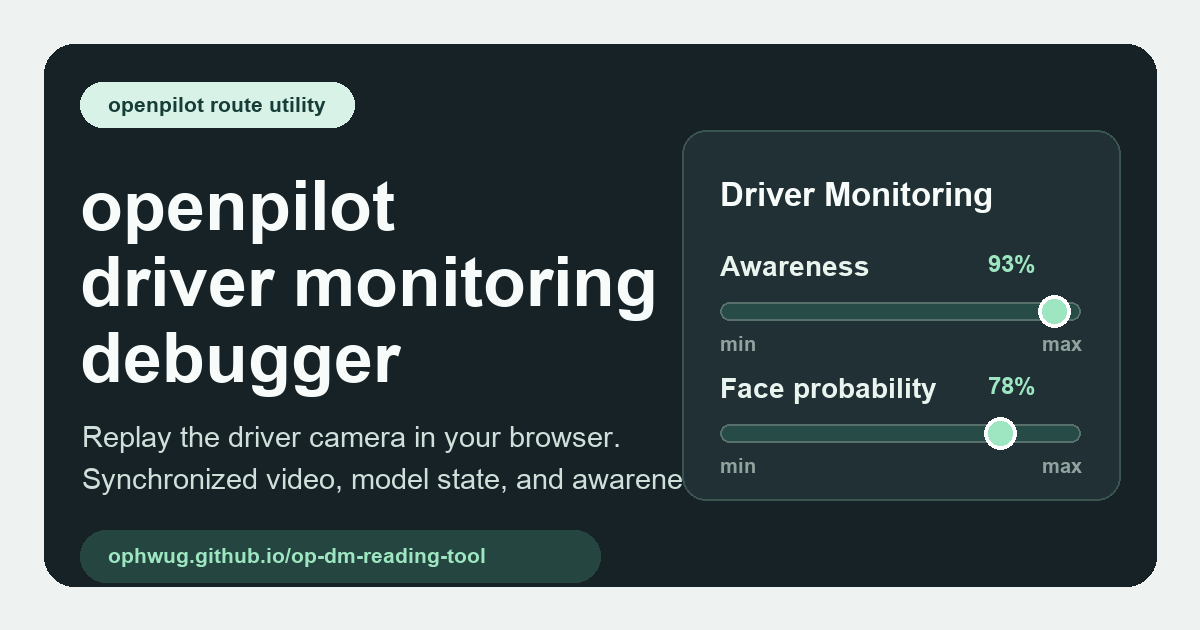
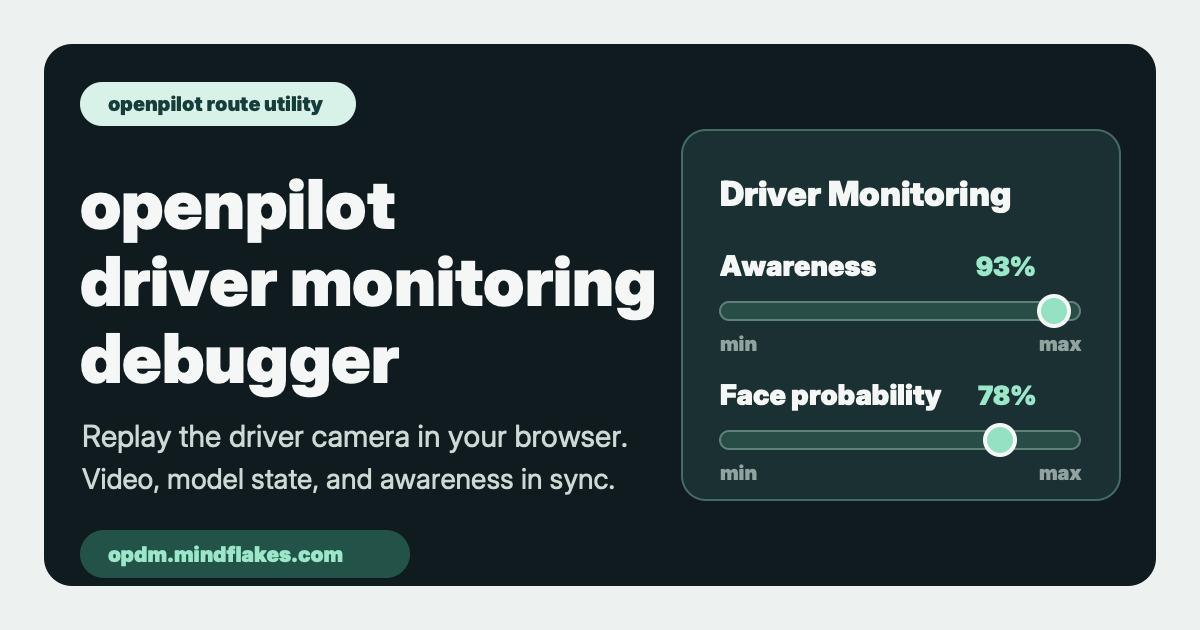
Add Discord link preview

diff --git a/index.html b/index.html
@@ -10,20 +10,28 @@
       content="A client-side openpilot driver monitoring debugger with synchronized driver-camera video and telemetry."
     />
     <meta property="og:type" content="website" />
+    <meta property="og:url" content="https://opdm.mindflakes.com/" />
+    <meta property="og:site_name" content="openpilot driver monitoring debugger" />
     <meta property="og:title" content="openpilot driver monitoring debugger" />
     <meta
       property="og:description"
       content="Inspect driver monitoring video, awareness, distraction, pose, and model state in your browser."
     />
+    <meta property="og:image" content="https://opdm.mindflakes.com/og-preview.png" />
+    <meta property="og:image:secure_url" content="https://opdm.mindflakes.com/og-preview.png" />
+    <meta property="og:image:type" content="image/png" />
     <meta property="og:image:width" content="1200" />
     <meta property="og:image:height" content="630" />
     <meta property="og:image:alt" content="openpilot driver monitoring debugger preview" />
     <meta name="twitter:card" content="summary_large_image" />
+    <meta name="twitter:image" content="https://opdm.mindflakes.com/og-preview.png" />
+    <meta name="twitter:image:alt" content="openpilot driver monitoring debugger preview" />
     <meta name="twitter:title" content="openpilot driver monitoring debugger" />
     <meta
       name="twitter:description"
       content="Inspect driver monitoring video, awareness, distraction, pose, and model state in your browser."
     />
+    <meta name="theme-color" content="#101b1f" />
   </head>
   <body>
     <main id="app"></main>